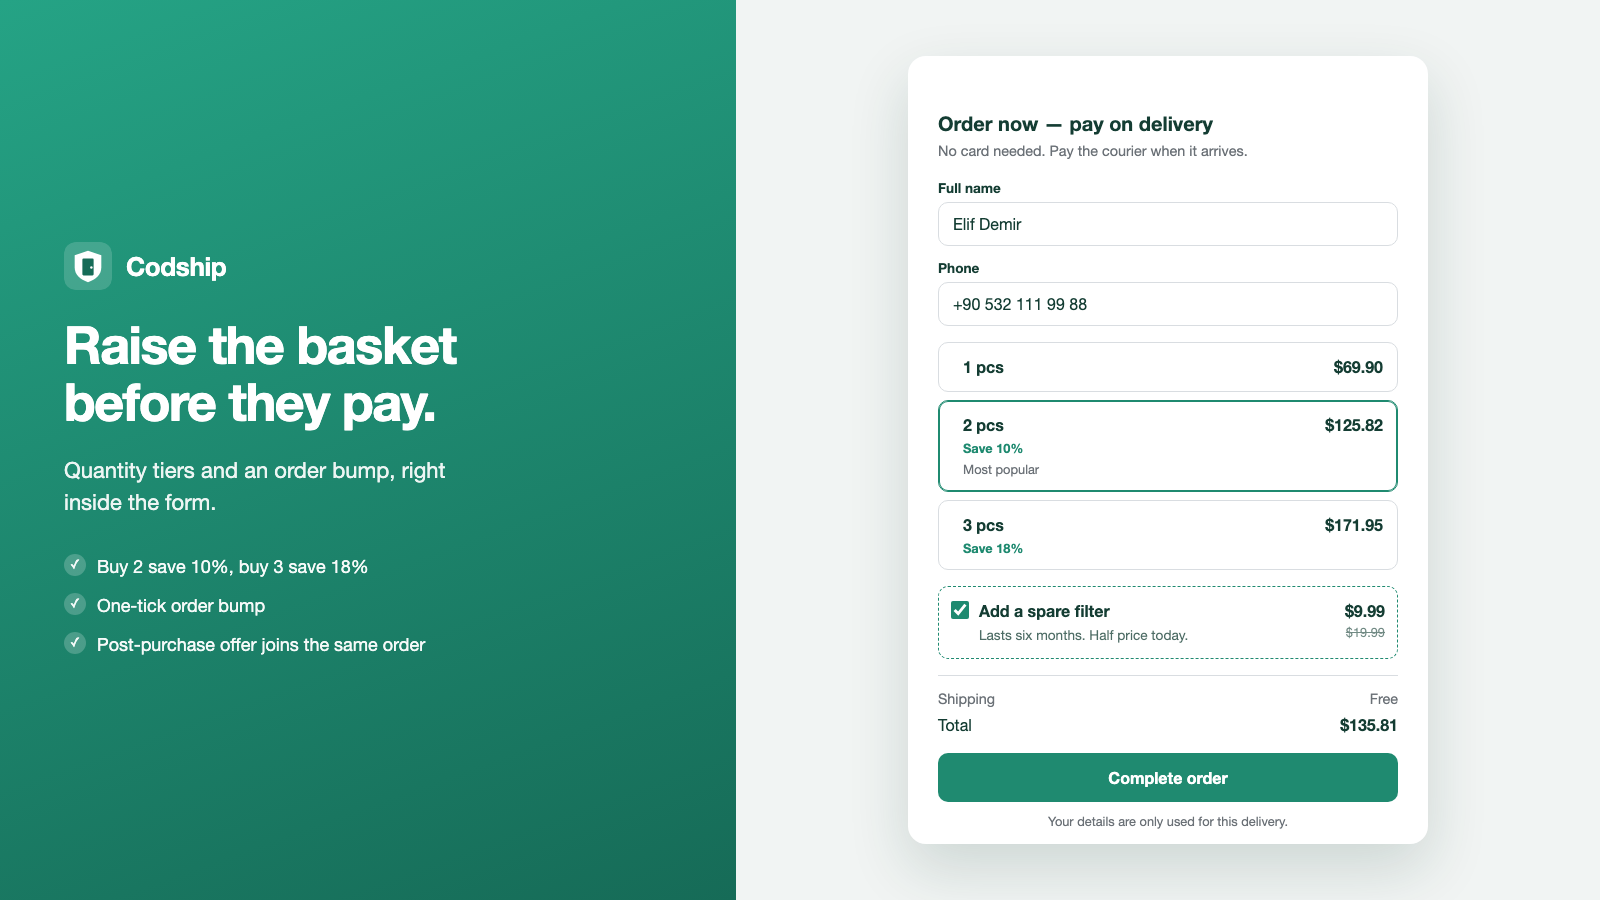
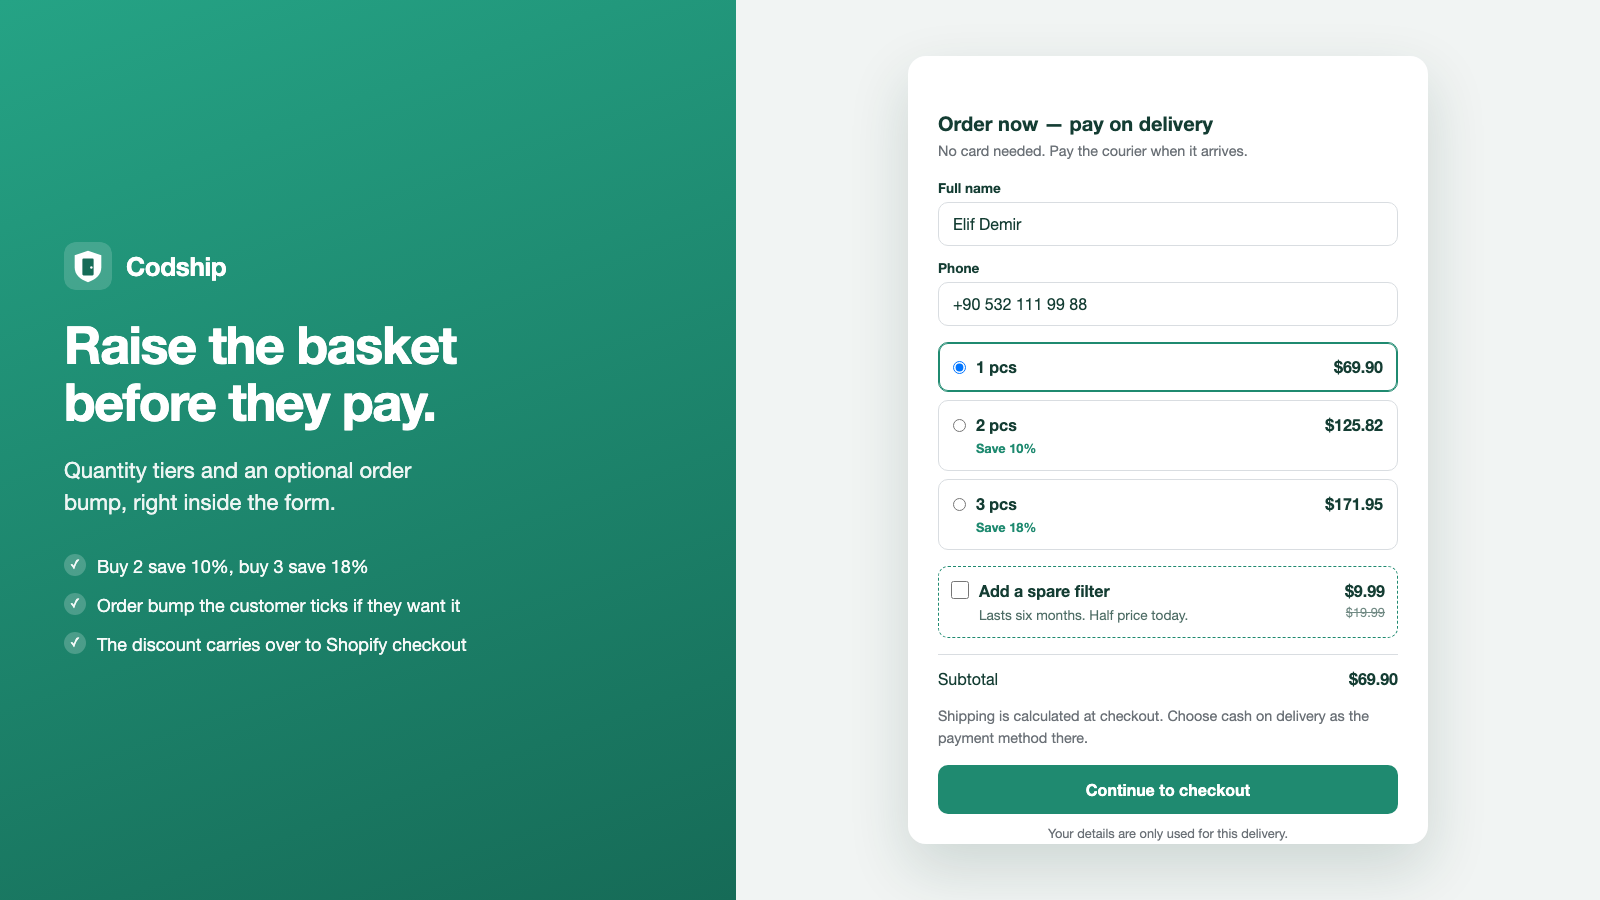
K-013: tanıtım sayfası yeni akışa göre (Shopify kasası), görseller yenilendi

diff --git a/index.html b/index.html
@@ -4,7 +4,7 @@
 <meta charset="utf-8">
 <meta name="viewport" content="width=device-width, initial-scale=1">
 <title>Codship — Kapıda ödeme formu, upsell ve ortak sahte sipariş koruması</title>
-<meta name="description" content="Shopify ürün sayfanıza tek adımlı kapıda ödeme formu; adet indirimleri, upsell ve kapıda teslim almayı reddetmiş numaraları mağazalar arasında paylaşan risk puanı.">
+<meta name="description" content="Shopify ürün sayfanıza kapıda ödeme formu: bilgiler dolu Shopify kasasına geçiş, adet indirimleri, sipariş eki ve kapıda teslim almayı reddetmiş numaraları mağazalar arasında paylaşan risk puanı.">
 <link rel="icon" href="gorsel/simge-32.png" sizes="32x32">
 <link rel="apple-touch-icon" href="gorsel/simge-192.png">
 <meta property="og:title" content="Codship — Shopify için kapıda ödeme formu ve upsell">
@@ -542,9 +542,10 @@
     </div>
     <h1 data-t="hero.h1">Kapıda ödeme satar. <br>Ta ki kargolar geri dönene kadar.</h1>
     <p class="alt" data-t="hero.sub">
-      Codship ürün sayfanıza tek adımlı bir kapıda ödeme formu koyar, adet
-      indirimleri ve upsell'lerle sepeti büyütür — ve hangi telefon
-      numarasının başka mağazalarda kargo reddettiğini söyler.
+      Codship ürün sayfanıza kısa bir kapıda ödeme formu koyar, alıcıyı
+      bilgileri dolu Shopify kasasına geçirir, adet indirimleri ve sipariş
+      ekiyle sepeti büyütür — ve hangi telefon numarasının başka
+      mağazalarda kargo reddettiğini söyler.
     </p>
     <div class="cta">
       <a class="btn" href="#fiyat" data-t="hero.cta1">Ücretsiz başla — ayda 60 sipariş</a>
@@ -597,12 +598,11 @@
         </div>
 
         <div class="t-ozet g7">
-          <div><span data-t="tel.kargo">Kargo</span><span>49,90 ₺</span></div>
-          <div><span data-t="tel.ucret">Kapıda ödeme ücreti</span><span>24,90 ₺</span></div>
-          <div class="t-toplam"><span data-t="tel.toplam">Toplam</span><strong>874,60 ₺</strong></div>
+          <div><span data-t="tel.kargo">Kargo</span><span data-t="tel.kargoKasa">Kasada hesaplanır</span></div>
+          <div class="t-toplam"><span data-t="tel.toplam">Ara toplam</span><strong>799,80 ₺</strong></div>
         </div>
 
-        <div class="t-buton g8" data-t="tel.buton">Siparişi tamamla</div>
+        <div class="t-buton g8" data-t="tel.buton">Kasaya devam et</div>
         <p class="t-guven g8" data-t="tel.guven">Bilgileriniz yalnızca bu teslimat için kullanılır.</p>
       </div>
     </div>
@@ -620,18 +620,18 @@
   <div class="kap">
     <div class="baslik gorun">
       <h2 data-t="feat.title">Kapıda ödeme yapan bir mağazanın ihtiyacı olan her şey</h2>
-      <p data-t="feat.sub">Ödeme sayfasına sapma yok, yarım kalan sipariş yok, hangi kargonun geri döneceğini tahmin etmek yok.</p>
+      <p data-t="feat.sub">Bilgiler ürün sayfasında alınır, sipariş Shopify kasasında biter; hangi kargonun geri döneceğini tahmin etmek yok.</p>
     </div>
     <div class="izgara">
       <div class="kart gorun">
         <div class="ikon">◼</div>
-        <h3 data-t="feat.f1t">Tek adımlı sipariş formu</h3>
-        <p data-t="feat.f1p">Ad, telefon, adres — doğrudan ürün sayfasında. Müşteri ödeme sayfasına hiç gitmiyor, dolayısıyla düşecek bir yer de yok.</p>
+        <h3 data-t="feat.f1t">Ürün sayfasında sipariş formu</h3>
+        <p data-t="feat.f1p">Ad, telefon, adres — doğrudan ürün sayfasında. Alıcı Shopify kasasına bu bilgiler dolu geçer, kapıda ödemeyi seçer ve siparişi orada verir.</p>
       </div>
       <div class="kart gorun">
         <div class="ikon">↑</div>
-        <h3 data-t="feat.f2t">Upsell ve sipariş eklentileri</h3>
-        <p data-t="feat.f2p">Formun içinde adet indirimleri, onaydan hemen önce bir eklenti teklifi ve aynı siparişe eklenen satın alma sonrası teklif.</p>
+        <h3 data-t="feat.f2t">Adet indirimi ve sipariş eki</h3>
+        <p data-t="feat.f2p">Formun içinde adet indirimleri ve işaretsiz gelen bir sipariş eki. Seçimi alıcı yapar; indirim Shopify kasasında uygulanır.</p>
       </div>
       <div class="kart gorun">
         <div class="ikon">⬢</div>
@@ -640,8 +640,8 @@
       </div>
       <div class="kart gorun">
         <div class="ikon">₺</div>
-        <h3 data-t="feat.f4t">Kapıda ödeme ücreti ve bölgeler</h3>
-        <p data-t="feat.f4p">Kapıda ödeme için ücret alın ya da gerçekten teslimat yaptığınız ilçelerle sınırlayın. Türkiye, Fas, Mısır, Suudi Arabistan.</p>
+        <h3 data-t="feat.f4t">Teslimat bölgeleri</h3>
+        <p data-t="feat.f4p">Formu gerçekten teslimat yaptığınız posta kodlarıyla, ürünlerle ya da ülkelerle sınırlayın. Türkiye, Fas, Mısır, Suudi Arabistan için hazır il listesi.</p>
       </div>
       <div class="kart gorun">
         <div class="ikon">⇄</div>
@@ -685,7 +685,7 @@
           <b>Katılım isteğe bağlı ve karşılıklıdır.</b> Ortak uyarıyı yalnızca siz de katkı verdiğiniz sürece görürsünüz. Mağazalar birbirinin adını, siparişini, müşterisini ya da cirosunu asla görmez — yalnızca bir risk puanı. Alıcı itiraz edip kaydının silinmesini isteyebilir.
         </div>
       </div>
-      <img class="gorun" src="gorsel/tr/04-dogrulama.png" data-gorsel="04-dogrulama.png" data-alt="alt.risk" alt="Kargoya vermeden önce görünen risk puanı" width="1600" height="900">
+      <img class="gorun" src="gorsel/tr/04-dogrulama.png" data-gorsel="04-dogrulama.png" data-alt="alt.risk" alt="Riskli siparişte SMS doğrulaması, ardından Shopify kasasına geçiş" width="1600" height="900">
     </div>
   </div>
 </section>
@@ -694,11 +694,11 @@
 <section>
   <div class="kap">
     <div class="ikili">
-      <img class="gorun" src="gorsel/tr/01-form.png" data-gorsel="01-form.png" data-alt="alt.form" alt="Tek adımlı kapıda ödeme formu" width="1600" height="900">
+      <img class="gorun" src="gorsel/tr/01-form.png" data-gorsel="01-form.png" data-alt="alt.form" alt="Ürün sayfasındaki kapıda ödeme formu" width="1600" height="900">
       <div class="gorun">
-        <h2 data-t="form.title">Tek adımda sipariş. Ödeme sayfası yok.</h2>
-        <p class="govde" data-t="form.p1">Shopify'ın ödeme sayfası kart için tasarlandı. Kapıda ödeyecek bir alıcı için bu, ihtiyacı olmayan alanlardan oluşan üç ekran demek. Codship onun yerine ürün sayfasına tek bir kısa form koyar.</p>
-        <p class="govde" data-t="form.p2">Sipariş Shopify yönetim panelinize sıradan, ödenmemiş bir sipariş olarak düşer — aynı liste, aynı kargolama, aynı raporlar. Kontrol etmeyi hatırlamanız gereken ayrı bir panelde hiçbir şey durmaz.</p>
+        <h2 data-t="form.title">Bilgiler ürün sayfasında. Sipariş Shopify kasasında.</h2>
+        <p class="govde" data-t="form.p1">Alıcı adını, telefonunu ve adresini ürün sayfasındaki kısa forma yazar. "Kasaya devam et" ona bu bilgiler dolu Shopify kasasını açar; alıcı orada kapıda ödemeyi seçip siparişi kendisi verir.</p>
+        <p class="govde" data-t="form.p2">Sipariş Shopify kasasında oluştuğu için yönetim panelinizde sıradan bir sipariş olarak görünür — aynı liste, aynı kargolama, aynı raporlar. Kargo ücretini Shopify ayarlarınız hesaplar.</p>
       </div>
     </div>
   </div>
@@ -709,7 +709,7 @@
     <div class="ikili">
       <div class="gorun">
         <h2 data-t="bump.title">Ödemeden önce sepeti büyütün</h2>
-        <p class="govde" data-t="bump.p1">Adet indirimleri formun içinde durur, iki tane almak tek dokunuş. Onaydan hemen önce bir eklenti teklifi çıkar. Satın alma sonrası teklif <em>aynı</em> siparişe eklenir — tek teslimat, tek tahsilat, ikinci kargo ücreti yok.</p>
+        <p class="govde" data-t="bump.p1">Adet indirimleri formun içinde durur; varsayılan 1 adettir, iki tane almak tek dokunuş. Hemen altında işaretsiz bir sipariş eki çıkar. Alıcının seçtikleri tek sepette kasaya gider — tek teslimat, tek tahsilat.</p>
       </div>
       <img class="gorun" src="gorsel/tr/03-teklif.png" data-gorsel="03-teklif.png" data-alt="alt.teklif" alt="Adet indirimleri ve sipariş eklentisi" width="1600" height="900">
     </div>
@@ -815,7 +815,7 @@
         <div class="ucret">$0</div>
         <div class="adet" data-t="price.p0q">Ayda 60 sipariş</div>
         <ul>
-          <li data-t="price.p0f1">Tek adımlı kapıda ödeme formu</li>
+          <li data-t="price.p0f1">Kapıda ödeme sipariş formu</li>
           <li data-t="price.p0f2">Adet indirimleri</li>
           <li data-t="price.p0f3">Temel sahtekârlık denetimleri</li>
           <li data-t="price.p0f4">Altı dilin hepsi</li>
@@ -828,10 +828,10 @@
         <div class="adet" data-t="price.p1q">Ayda 420 sipariş</div>
         <ul>
           <li data-t="price.p1f1">Ücretsiz plandaki her şey</li>
-          <li data-t="price.p1f2">Sipariş eklentileri ve upsell</li>
+          <li data-t="price.p1f2">Sipariş eki</li>
           <li data-t="price.p1f3">Kargodan önce risk sırası</li>
           <li data-t="price.p1f4">Ortak ret uyarısı</li>
-          <li data-t="price.p1f5">Reklam takip pikselleri</li>
+          <li data-t="price.p1f5">Sunucudan dönüşüm olayı (Meta, TikTok)</li>
         </ul>
       </div>
       <div class="plan gorun">
@@ -840,8 +840,6 @@
         <div class="adet" data-t="price.p2q">Ayda 10.000 sipariş</div>
         <ul>
           <li data-t="price.p2f1">Growth'taki her şey</li>
-          <li data-t="price.p2f2">Downsell</li>
-          <li data-t="price.p2f3">Kapıda ödemede kısmi kapora</li>
           <li data-t="price.p2f4">Özel risk ağırlıkları</li>
           <li data-t="price.p2f5">Öncelikli destek</li>
         </ul>
@@ -874,7 +872,7 @@
       </details>
       <details class="gorun">
         <summary data-t="faq.q2">Siparişler Shopify'da normal görünmeye devam ediyor mu?</summary>
-        <p data-t="faq.a2">Evet. Codship, Shopify'ın kendi API'si üzerinden sıradan, ödenmemiş bir sipariş oluşturur. Sipariş listenizde, raporlarınızda ve kargolama akışınızda diğer siparişlerle birebir aynı şekilde görünür.</p>
+        <p data-t="faq.a2">Evet. Siparişi alıcı Shopify kasasında kapıda ödemeyi seçerek verir; Codship sipariş oluşturmaz, yalnızca siparişe etiket ekler. Sipariş listenizde, raporlarınızda ve kargolama akışınızda diğer siparişlerle birebir aynı şekilde görünür.</p>
       </details>
       <details class="gorun">
         <summary data-t="faq.q3">Plan sınırıma ulaşırsam ne olur?</summary>
@@ -964,7 +962,7 @@ const EN = {
 
   "hero.badge":"For Shopify stores selling cash on delivery",
   "hero.h1":"Cash on delivery converts. <br>Until the parcels come back.",
-  "hero.sub":"Codship puts a one-step COD order form on your product page, raises the basket with upsells and quantity tiers — and tells you which phone numbers have already refused a parcel at other stores.",
+  "hero.sub":"Codship puts a short COD order form on your product page, sends the buyer to Shopify checkout with their details filled in, raises the basket with quantity tiers and an order bump — and tells you which phone numbers have already refused a parcel at other stores.",
   "hero.cta1":"Start free — 60 orders a month",
   "hero.cta2":"How the shared signal works",
 
@@ -977,21 +975,21 @@ const EN = {
   "tel.ekAd":"Add a spare filter",
   "tel.ekAlt":"Half price today",
   "tel.kargo":"Shipping",
-  "tel.ucret":"Cash on delivery fee",
-  "tel.toplam":"Total",
-  "tel.buton":"Complete order",
+  "tel.kargoKasa":"Calculated at checkout",
+  "tel.toplam":"Subtotal",
+  "tel.buton":"Continue to checkout",
   "tel.guven":"Your details are only used for this delivery.",
 
   "feat.title":"Everything a COD store actually needs",
-  "feat.sub":"No checkout detour, no half-finished orders, no guessing which parcels will come back.",
-  "feat.f1t":"One-step order form",
-  "feat.f1p":"Name, phone, address — on the product page itself. The buyer never leaves for checkout, so there is nowhere to drop off.",
-  "feat.f2t":"Upsells and order bumps",
-  "feat.f2p":"Quantity tiers inside the form, an order bump before they confirm, and a post-purchase offer added to the same order.",
+  "feat.sub":"Details collected on the product page, the order placed in Shopify checkout — and no guessing which parcels will come back.",
+  "feat.f1t":"Order form on the product page",
+  "feat.f1p":"Name, phone, address — on the product page itself. The buyer continues to Shopify checkout with those details filled in, chooses cash on delivery and places the order there.",
+  "feat.f2t":"Quantity tiers and an order bump",
+  "feat.f2p":"Quantity tiers inside the form and an order bump that starts unticked. The buyer chooses; the discount is applied in Shopify checkout.",
   "feat.f3t":"Risk score on every order",
   "feat.f3p":"Each order is scored before you ship it. High-risk ones wait in a queue for a call instead of going straight onto a van.",
-  "feat.f4t":"COD fees and regions",
-  "feat.f4p":"Charge for cash on delivery, or limit it to the districts you actually deliver to. Türkiye, Morocco, Egypt, Saudi Arabia.",
+  "feat.f4t":"Delivery regions",
+  "feat.f4p":"Limit the form to the postal codes, products or countries you actually deliver to. Ready-made region lists for Türkiye, Morocco, Egypt, Saudi Arabia.",
   "feat.f5t":"A/B test the form",
   "feat.f5p":"Run two versions against each other. A winner is declared only when the data supports it — not on the first good day.",
   "feat.f6t":"Six languages, RTL included",
@@ -1007,12 +1005,12 @@ const EN = {
   "fraud.s3p":"When that same number orders somewhere else, the form scores it as high risk — before anyone pays for shipping.",
   "fraud.note":"<b>Participation is opt-in and symmetric.</b> You see the shared signal only while you contribute to it. Stores never see each other's names, orders, customers or revenue — only a risk score. A buyer can object and have their record removed.",
 
-  "form.title":"Order in one step. No checkout.",
-  "form.p1":"Shopify's checkout is built for cards. For a buyer paying at the door it is three screens of fields they do not need. Codship replaces it with one short form on the product page.",
-  "form.p2":"The order lands in your Shopify admin as an ordinary unpaid order — same list, same fulfilment, same reports. Nothing lives in a separate dashboard you have to remember to check.",
+  "form.title":"Details on the product page. The order in Shopify checkout.",
+  "form.p1":"The buyer types their name, phone and address into a short form on the product page. “Continue to checkout” opens Shopify checkout with those details filled in; the buyer chooses cash on delivery there and places the order themselves.",
+  "form.p2":"Because the order is placed in Shopify checkout, it shows up in your admin as an ordinary order — same list, same fulfilment, same reports. Shipping is calculated from your Shopify settings.",
 
   "bump.title":"Raise the basket before they pay",
-  "bump.p1":"Quantity tiers sit inside the form, so buying two is a single tap. An order bump appears before they confirm. A post-purchase offer is added to the <em>same</em> order — one delivery, one collection, no second shipping cost.",
+  "bump.p1":"Quantity tiers sit inside the form; one unit is the default and buying two is a single tap. An unticked order bump sits just below. Whatever the buyer picks goes to checkout in one cart — one delivery, one collection.",
 
   "kapsama.title":"Ready for the markets where COD is normal",
   "kapsama.sub":"In these countries the administrative regions ship inside the form — the buyer picks from a list instead of typing. A mistyped province is a mispriced delivery.",
@@ -1035,15 +1033,14 @@ const EN = {
   "price.badge":"Most stores start here",
   "price.mo":"/mo","price.mo2":"/mo","price.mo3":"/mo",
   "price.p0name":"Free","price.p0q":"60 orders a month",
-  "price.p0f1":"One-step COD order form","price.p0f2":"Quantity tiers",
+  "price.p0f1":"COD order form","price.p0f2":"Quantity tiers",
   "price.p0f3":"Basic fraud checks","price.p0f4":"All six languages",
   "price.p1q":"420 orders a month",
-  "price.p1f1":"Everything in Free","price.p1f2":"Order bumps and upsells",
+  "price.p1f1":"Everything in Free","price.p1f2":"Order bumps",
   "price.p1f3":"Risk queue before shipping","price.p1f4":"Shared refusal signal",
-  "price.p1f5":"Ad tracking pixels",
+  "price.p1f5":"Server-side conversion events (Meta, TikTok)",
   "price.p2q":"10,000 orders a month",
-  "price.p2f1":"Everything in Growth","price.p2f2":"Downsells",
-  "price.p2f3":"Partial deposit on COD","price.p2f4":"Custom risk weights",
+  "price.p2f1":"Everything in Growth","price.p2f4":"Custom risk weights",
   "price.p2f5":"Priority support",
   "price.p3name":"Unlimited","price.p3q":"Unlimited orders",
   "price.p3f1":"Everything in Pro","price.p3f2":"No overage charges",
@@ -1054,7 +1051,7 @@ const EN = {
   "faq.q1":"Can another store see my customers?",
   "faq.a1":"No. What is shared is an irreversible HMAC-SHA256 hash of a phone number and nothing else — no name, no address, no order, no store identity. A hash cannot be reversed into a number. Other merchants see a risk score, never your customer list, your orders or your revenue.",
   "faq.q2":"Do orders still appear normally in Shopify?",
-  "faq.a2":"Yes. Codship creates an ordinary unpaid order through Shopify's own API. It shows up in your orders list, your reports and your fulfilment flow exactly like any other order.",
+  "faq.a2":"Yes. The buyer places the order in Shopify checkout by choosing cash on delivery; Codship does not create orders, it only adds a tag. It shows up in your orders list, your reports and your fulfilment flow exactly like any other order.",
   "faq.q3":"What happens if I hit my plan limit?",
   "faq.a3":"On a paid plan the order still goes through and costs $0.05, up to a capped amount. On the Free plan the buyer is handed to Shopify's normal checkout instead. Either way the sale is not lost.",
   "faq.q4":"What if a buyer wants their record removed?",
@@ -1075,14 +1072,14 @@ const EN = {
   "foot.copy":"© 2026 Codship. Not affiliated with or endorsed by Shopify Inc. Shopify is a trademark of Shopify Inc.",
 
   "alt.kapak":"The Codship cash-on-delivery form",
-  "alt.risk":"The risk score shown before you ship",
-  "alt.form":"One-step cash-on-delivery form",
+  "alt.risk":"SMS verification on a risky order, then on to Shopify checkout",
+  "alt.form":"Cash-on-delivery form on the product page",
   "alt.teklif":"Quantity tiers and an order bump",
 
-  "serit":["One-step form","Upsells","Quantity tiers","Shared blocklist","COD fees","Six languages"]
+  "serit":["Product page form","Shopify checkout","Quantity tiers","Order bump","Shared blocklist","Six languages"]
 };
 
-const SERIT_TR = ["Tek adımlı form","Upsell","Adet indirimi","Ortak kara liste","Kapıda ödeme ücreti","Altı dil"];
+const SERIT_TR = ["Ürün sayfasında form","Shopify kasası","Adet indirimi","Sipariş eki","Ortak kara liste","Altı dil"];
 
 /* Türkçe metin zaten HTML'de duruyor; ilk açılışta oradan topluyoruz ki
    sözlüğü iki yerde tutmak zorunda kalmayalım. */
